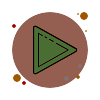
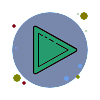
Update background, score background, move background, and button style

diff --git a/src/ui.ts b/src/ui.ts
@@ -29,7 +29,7 @@ export class UI {
 	}
 	async init() {
 		this.boardTexture = await this.renderer.loadAsset(
-			"../public/assets/level1.png"
+			"public/ui/time_scores.png"
 		);
 		this.gameOverBackgroundTexture = await this.renderer.loadAsset(
 			"public/assets/level1.png"
@@ -39,7 +39,7 @@ export class UI {
 		);
 
 		this.playBackgroundTexture = await this.renderer.loadAsset(
-			"public/assets/level1.png"
+			"public/ui/button.png"
 		);
 		this.playTexture = await this.renderer.loadAsset(
 			"public/assets/play.png"
@@ -51,7 +51,7 @@ export class UI {
 		const gridEnd = gridPos.x + gridWidth + margin;
 		boardbg.position.set(gridEnd, gridPos.y + margin);
 		boardbg.width = window.innerWidth - gridEnd - margin;
-		boardbg.height = 100;
+		boardbg.height = 200;
 		const text = this.renderer.write(
 			`Move : ${this.move}`,
 			boardbg.position.x + boardbg.width / 2,
@@ -66,7 +66,7 @@ export class UI {
 		const margin = 50;
 		boardbg.position.set(margin, gridPos.y + margin);
 		boardbg.width = gridPos.x - 2 * margin;
-		boardbg.height = 100;
+		boardbg.height = 200;
 		const text = this.renderer.write(
 			`Score: ${this.score}`,
 			boardbg.position.x + boardbg.width / 2 - 40,
@@ -116,7 +116,7 @@ export class UI {
 		const playBackground = this.renderer.createplayBackground(
 			this.playBackgroundTexture,
 			600, // Width
-			100 // Height
+			300 // Height
 		);
 
 		const playText = this.renderer.createplayText(
@@ -127,11 +127,11 @@ export class UI {
 
 		const playIcon = this.renderer.createplayButton(
 			this.playTexture,
-			100, // Width
-			100, // Height
+			200, // Width
+			200, // Height
 			{
 				x: this.renderer.app.screen.width / 2,
-				y: this.renderer.app.screen.height / 2 + 150,
+				y: this.renderer.app.screen.height / 2 + 300,
 			}
 		);
 

diff --git a/src/renderer.ts b/src/renderer.ts
@@ -31,7 +31,7 @@ export class Renderer {
 		document.body.appendChild(this.app.canvas);
 
 		// setting the background
-		const bgPath = "../public/assets/bg5-2.jpg";
+		const bgPath = "public/ui/bg_night.jpg";
 		const backgroundTexture = await PIXI.Assets.load(bgPath); 
 		const backgroundSprite = new PIXI.Sprite(backgroundTexture);
 		backgroundSprite.zIndex = -10;
@@ -86,7 +86,7 @@ export class Renderer {
 	write(text: string, x: number, y: number) {
 		const style = new PIXI.TextStyle({
 			fill: "white",
-			fontSize: 40,
+			fontSize: 80,
 			fontFamily: "Arial",
 			align: "center",
 			fontWeight: "bold",
@@ -152,7 +152,7 @@ export class Renderer {
 	createplayText(text: string, x: number, y: number) {
 		const style = new PIXI.TextStyle({
 			fill: "white",
-			fontSize: 80,
+			fontSize: 200,
 			fontFamily: "Arial",
 			fontWeight: "bold",
 			align: "center",
